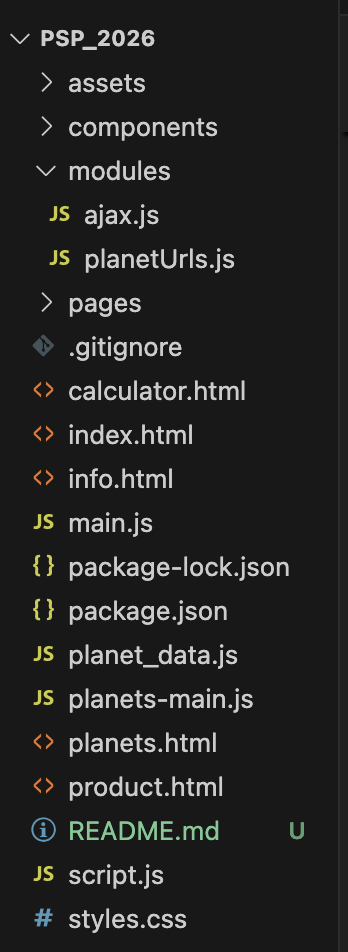
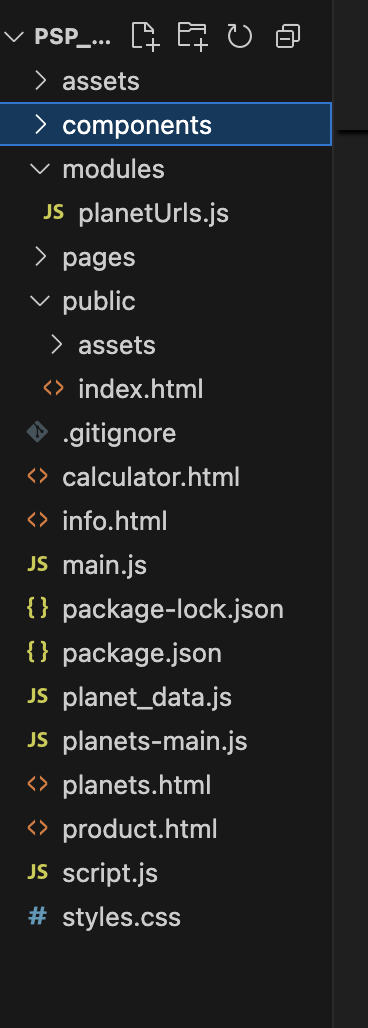
lab_6

diff --git a/README.md b/README.md
@@ -1,0 +1,131 @@
+# 6 - Знакомство с promise и fetch, сборка клиентской части <!-- omit in toc -->
+
+> Лабораторная работа 6 для студентов курса "Проектирование сетевых приложений" 4 семестра кафедры ИУ5 МГТУ им Н.Э. Баумана.
+
+## Содержание <!-- omit in toc -->
+
+- [Цель работы](#цель-работы)
+- [Начало работы](#начало-работы)
+- [Задание](#задание)
+- [Указания по выполнению лабораторной работы](#указания-по-выполнению-лабораторной-работы)
+    - [Структура проекта](#структура-проекта)
+	- [Требования к реализации](#требования-к-реализации)
+- [Пример программы](#пример-программы)
+- [Результат работы](#результат-работы)
+
+## Цель работы
+
+Первая часть данной лабораторной работы заключается в изменении механизма взаимодействия с внешним API: в прошлой лабораторной работе использовался XMLHttpRequest, в этой - современный метод fetch. В ходе выполнения работы предстоит познакомиться с кратким полезным теоретическим материалом, кодом реализации простого взаимодействия с внешним API, получением данных и выводом их в интерфейс пользователя, и выполнить задания по варианту.
+Вторая часть лабораторной работы заключается в сборке клиентской части приложения: необходимо "сбилдить" клиентскую часть (ЛР №3) с помощью системы сборки, а также добавить в серверную часть (ЛР №4) возможность раздачи клиентской части в качестве статики во избежание проблем с CORS.
+
+---
+
+## Начало работы
+
+Зайдите в свою локальную директорию с репозиторием для выполнения лабораторных работ. Заберите ветку с соответствующей лабораторной работой из общего репозитория:
+
+```sh
+git pull upstream
+```
+
+**или**
+
+```sh
+git pull upstream lab_6
+```
+
+Переключитесь на ветку с текущей лабораторной работой:
+
+```sh
+git checkout lab_6
+```
+
+Свяжите ветку локального репозитория с вашим удаленным репозиторием:
+
+```sh
+git push --set-upstream origin lab_6
+```
+
+## Задание
+
+1. Заменить все вызовы и использования XMLHttpRequest на fetch во фронтенд-части приложения
+2. Реализовать асинхронные запросы с использованием async/await
+3. Собрать клиентскую часть приложения с помощью Vite
+4. Настроить серверную часть (ЛР №4) для раздачи статики из папки public
+5. Убедиться, что CORS-ошибки отсутствуют, так как запросы выполняются с того же домена
+
+---
+## Указания по выполнению лабораторной работы
+
+1. Удалить устаревший модуль с XMLHttpRequest
+2. Убрать импорт этого модуля из главного файла
+3. Все запросы к API переписать на fetch с async/await
+4. Добавить функции для создания и обновления данных, привязав их к кнопкам сохранения в формах
+
+---
+
+### Структура проекта
+
+![Фото 1](assets/photo_1.png)
+
+---
+
+### Требования к реализации
+
+1. Все запросы к API должны быть переписаны на fetch с использованием async/await
+2. Удалены файлы modules/ajax.js и modules/stockUrls.js
+3. Клиентская часть собрана с помощью Vite в папку public
+4. Серверная часть раздаёт статику из папки public
+5. Отсутствуют CORS-ошибки при открытии сайта через http://localhost:3000
+
+---
+
+## Пример программы
+Основные fetch-запросы
+
+```javascript
+// GET - получить все планеты
+async function getAllPlanets() {
+    const response = await fetch('http://localhost:3000/planets');
+    if (response.ok) {
+        return await response.json();
+    }
+    throw new Error(`HTTP error! status: ${response.status}`);
+}
+
+// POST - добавить планету
+async function addPlanet(planetData) {
+    const response = await fetch('http://localhost:3000/planets', {
+        method: 'POST',
+        headers: { 'Content-Type': 'application/json' },
+        body: JSON.stringify(planetData)
+    });
+    return await response.json();
+}
+
+// PATCH - обновить планету
+async function updatePlanet(planetId, planetData) {
+    const response = await fetch(`http://localhost:3000/planets/${planetId}`, {
+        method: 'PATCH',
+        headers: { 'Content-Type': 'application/json' },
+        body: JSON.stringify(planetData)
+    });
+    return await response.json();
+}
+
+// DELETE - удалить планету
+async function deletePlanet(planetId) {
+    const response = await fetch(`http://localhost:3000/planets/${planetId}`, {
+        method: 'DELETE'
+    });
+    return response.status === 204 || response.status === 200;
+}
+```
+---
+
+## Результат работы
+
+![Фото 2](assets/photo_2.png)
+![Фото 3](assets/photo_3.png)
+
+---
